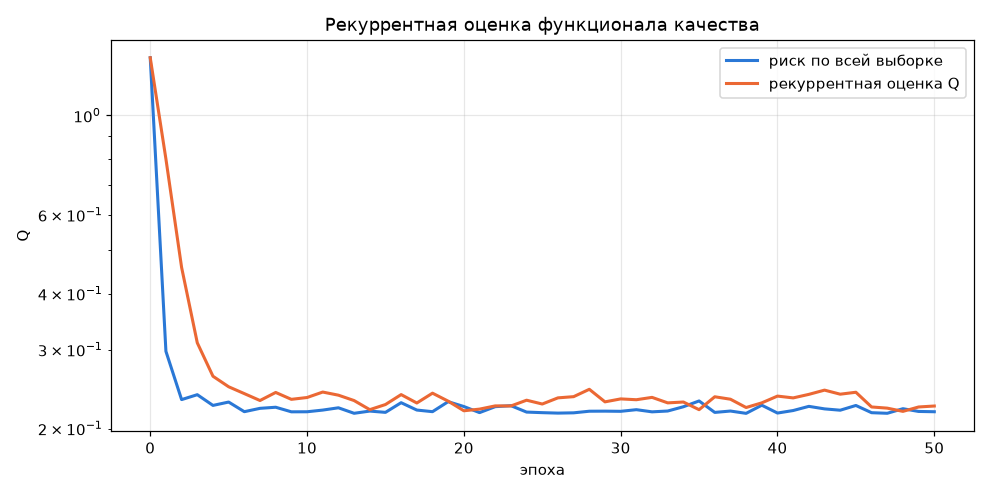
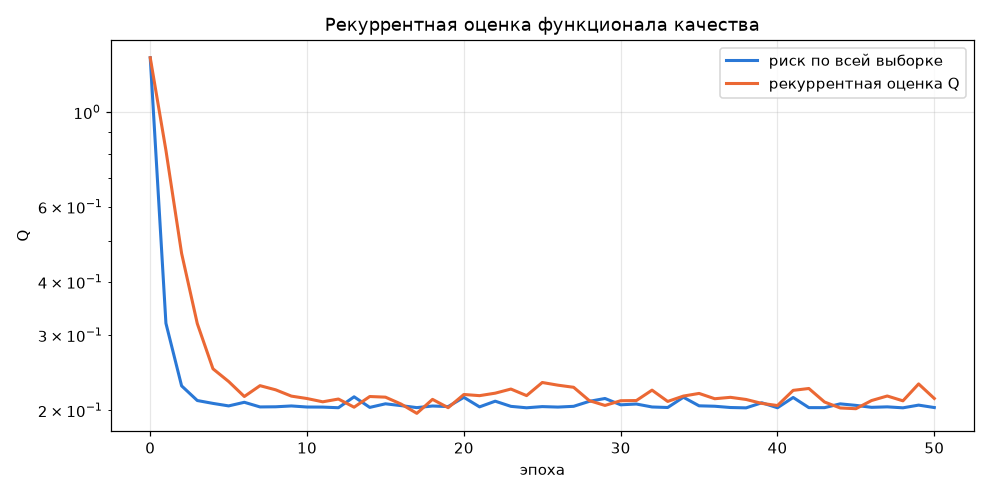
feat(lab1): add train test split and quality metrics

diff --git a/students/karabanov-af/lab1/source/main.py b/students/karabanov-af/lab1/source/main.py
@@ -4,8 +4,9 @@ import numpy as np
 
 import plots
 from classifier import (bias_mask, correlation_weights, empirical_risk, loss_gradient, margins,
-                        multistart, quadratic_loss, random_weights, sgd)
-from data import add_bias, load_binary_iris, standardize
+                        multistart, predict, quadratic_loss, random_weights, sgd)
+from data import add_bias, load_binary_iris, standardize, train_test_split
+from metrics import accuracy, confusion_matrix, f1, precision, recall
 
 IMAGES = os.path.join(os.path.dirname(__file__), "..", "images")
 
@@ -132,23 +133,40 @@ def l2_experiment(X, y, w):
     print()
 
 
+def evaluation(X_train, X_test, y_train, y_test, w):
+    print("## Качество классификации на отложенной выборке")
+    w_trained, _ = sgd(X_train, y_train, w, lr=0.01, momentum=0.9, l2=0.01, n_epochs=50)
+    for name, X_part, y_part in [("обучение", X_train, y_train), ("тест", X_test, y_test)]:
+        y_pred = predict(w_trained, X_part)
+        print(f"{name}: accuracy {accuracy(y_part, y_pred):.3f}, precision {precision(y_part, y_pred):.3f}, "
+              f"recall {recall(y_part, y_pred):.3f}, f1 {f1(y_part, y_pred):.3f}")
+    cm = confusion_matrix(y_test, predict(w_trained, X_test))
+    print("матрица ошибок на тесте (строки — истинный класс, столбцы — предсказанный):")
+    print(f"  versicolor: {cm[0]}")
+    print(f"  virginica:  {cm[1]}\n")
+    return w_trained
+
+
 def main():
     X, y = load_binary_iris()
-    X = add_bias(standardize(X))
-    print(f"объектов: {X.shape[0]}, признаков с bias: {X.shape[1]}")
+    X_train, X_test, y_train, y_test = train_test_split(X, y, test_size=0.3, seed=42)
+    X_test = add_bias(standardize(X_test, reference=X_train))
+    X_train = add_bias(standardize(X_train))
+    print(f"обучение: {X_train.shape}, тест: {X_test.shape}")
 
     rng = np.random.default_rng(0)
-    d = X.shape[1]
+    d = X_train.shape[1]
     w = random_weights(rng, d)
     print("случайные веса:", np.round(w, 3), "\n")
 
-    margin_analysis(X, y, w)
-    gradient_check(X, y, w)
-    training(X, y, w)
-    l2_experiment(X, y, w)
-    optimizer_experiment(X, y, w)
-    sampling_experiment(X, y, w)
-    init_experiment(X, y, w)
+    margin_analysis(X_train, y_train, w)
+    gradient_check(X_train, y_train, w)
+    training(X_train, y_train, w)
+    l2_experiment(X_train, y_train, w)
+    optimizer_experiment(X_train, y_train, w)
+    sampling_experiment(X_train, y_train, w)
+    init_experiment(X_train, y_train, w)
+    evaluation(X_train, X_test, y_train, y_test, w)
 
 
 if __name__ == "__main__":

diff --git a/students/karabanov-af/lab1/source/metrics.py b/students/karabanov-af/lab1/source/metrics.py
@@ -1,0 +1,25 @@
+import numpy as np
+
+
+def confusion_matrix(y_true, y_pred, labels=(-1, 1)):
+    """Rows are true classes, columns are predicted classes."""
+    return np.array([[np.sum((y_true == t) & (y_pred == p)) for p in labels] for t in labels])
+
+
+def accuracy(y_true, y_pred):
+    return float(np.mean(y_true == y_pred))
+
+
+def precision(y_true, y_pred, positive=1):
+    predicted = y_pred == positive
+    return float(np.sum(predicted & (y_true == positive)) / predicted.sum()) if predicted.any() else 0.0
+
+
+def recall(y_true, y_pred, positive=1):
+    actual = y_true == positive
+    return float(np.sum(actual & (y_pred == positive)) / actual.sum()) if actual.any() else 0.0
+
+
+def f1(y_true, y_pred, positive=1):
+    p, r = precision(y_true, y_pred, positive), recall(y_true, y_pred, positive)
+    return 2 * p * r / (p + r) if p + r > 0 else 0.0

diff --git a/students/karabanov-af/lab1/source/data.py b/students/karabanov-af/lab1/source/data.py
@@ -16,8 +16,22 @@ def load_binary_iris():
     return X, y
 
 
-def standardize(X):
-    return (X - X.mean(axis=0)) / X.std(axis=0)
+def train_test_split(X, y, test_size=0.3, seed=42):
+    """Stratified split: every class keeps its share in both parts."""
+    rng = np.random.default_rng(seed)
+    train_idx, test_idx = [], []
+    for label in np.unique(y):
+        idx = rng.permutation(np.flatnonzero(y == label))
+        n_test = round(len(idx) * test_size)
+        test_idx.extend(idx[:n_test])
+        train_idx.extend(idx[n_test:])
+    return X[train_idx], X[test_idx], y[train_idx], y[test_idx]
+
+
+def standardize(X, reference=None):
+    """Scale by the mean and std of `reference` (the training part) or of X itself."""
+    ref = X if reference is None else reference
+    return (X - ref.mean(axis=0)) / ref.std(axis=0)
 
 
 def add_bias(X):

diff --git a/students/karabanov-af/lab1/source/classifier.py b/students/karabanov-af/lab1/source/classifier.py
@@ -22,6 +22,10 @@ def bias_mask(d):
     return mask
 
 
+def predict(w, X):
+    return np.where(X @ w >= 0, 1, -1)
+
+
 def empirical_risk(w, X, y, l2=0.0):
     """Q(w) = mean loss over the whole sample + tau / 2 * ||w||^2."""
     penalty = 0.5 * l2 * np.sum((bias_mask(len(w)) * w) ** 2)
